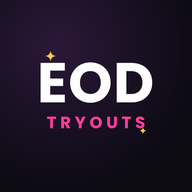
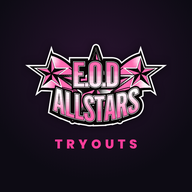
Add files via upload

Changed region(s): [[0.125, 0.2188, 0.875, 0.7188], [0.2812, 0.7188, 0.7188, 0.7812]]

diff --git a/index.html b/index.html
@@ -167,6 +167,9 @@ input[type=date].in{min-height:46px;min-width:0;-webkit-appearance:none;appearan
 .help{font-size:11px;color:var(--mut);margin:-6px 2px 12px;line-height:1.5}
 /* login */
 .login{display:flex;flex-direction:column;justify-content:center;min-height:92vh;padding:0 30px;position:relative}
+.logo-img{display:block;width:min(78%,300px);margin:0 auto 4px;filter:drop-shadow(0 8px 24px rgba(255,61,154,.25))}
+.brand{display:flex;align-items:center;gap:10px;min-width:0}
+.brand img{height:52px;width:auto;flex:none}
 .big-logo{font-size:46px;font-weight:800;text-align:center;line-height:1}
 .big-logo span{color:var(--pink)}
 .hub{text-align:center;color:var(--gold);letter-spacing:6px;font-size:13px;font-weight:600;margin:10px 0 6px}
@@ -487,7 +490,7 @@ const B = DEMO ? DemoBackend() : FirebaseBackend();
 /* ================================ VIEWS ================================ */
 function vLogin(){
   return `<div class="login">${sparkles()}
-    <div class="big-logo">EOD<br><span>ALLSTARS</span></div>
+    <img class="logo-img" src="icons/logo.webp" alt="EOD Allstars">
     <div class="hub">TRYOUT HUB</div>
     <div class="season">${esc(S.settings.season)}</div>
     <label>Coach email</label><input class="in" id="l-email" type="email" autocomplete="username" data-keep>
@@ -514,7 +517,7 @@ function vHome(){
   const divs=["All",...(S.settings.divisions||[]).map(d=>d.name)];
   const sts=[["All","All"],["new","To see"],["assessed","Assessed"],["placed","Placed"]];
   return `
-  <div class="top"><div><div class="logo">EOD <span>Tryouts</span></div><div class="sub">${esc(S.settings.season)} ✦</div></div>
+  <div class="top"><div class="brand"><img src="icons/logo.webp" alt="EOD Allstars"><div><div class="logo"><span>Tryouts</span></div><div class="sub">${esc(S.settings.season)} ✦</div></div></div>
     <button class="icon" data-act="go" data-v="settings" aria-label="Settings">⚙</button></div>
   ${installBanner()}
   ${DEMO?`<div class="demo">Demo mode: data stays on this device only. Add your Firebase details to go live.</div>`:""}

diff --git a/sw.js b/sw.js
@@ -1,8 +1,8 @@
 // EOD Tryout Hub: lets the app install and open fast.
 // Your own files load fresh from the internet when online (so updates show straight away)
 // and fall back to the saved copy when offline. Firebase data, photos and videos are never cached here.
-const CACHE = "eod-tryouts-v1";
-const SHELL = ["./", "./index.html", "./manifest.json", "./icons/icon-192.png", "./icons/icon-512.png", "./icons/apple-touch-icon.png"];
+const CACHE = "eod-tryouts-v2";
+const SHELL = ["./", "./index.html", "./manifest.json", "./icons/icon-192.png", "./icons/icon-512.png", "./icons/apple-touch-icon.png", "./icons/logo.webp"];
 
 self.addEventListener("install", e => {
   e.waitUntil(caches.open(CACHE).then(c => c.addAll(SHELL)));
